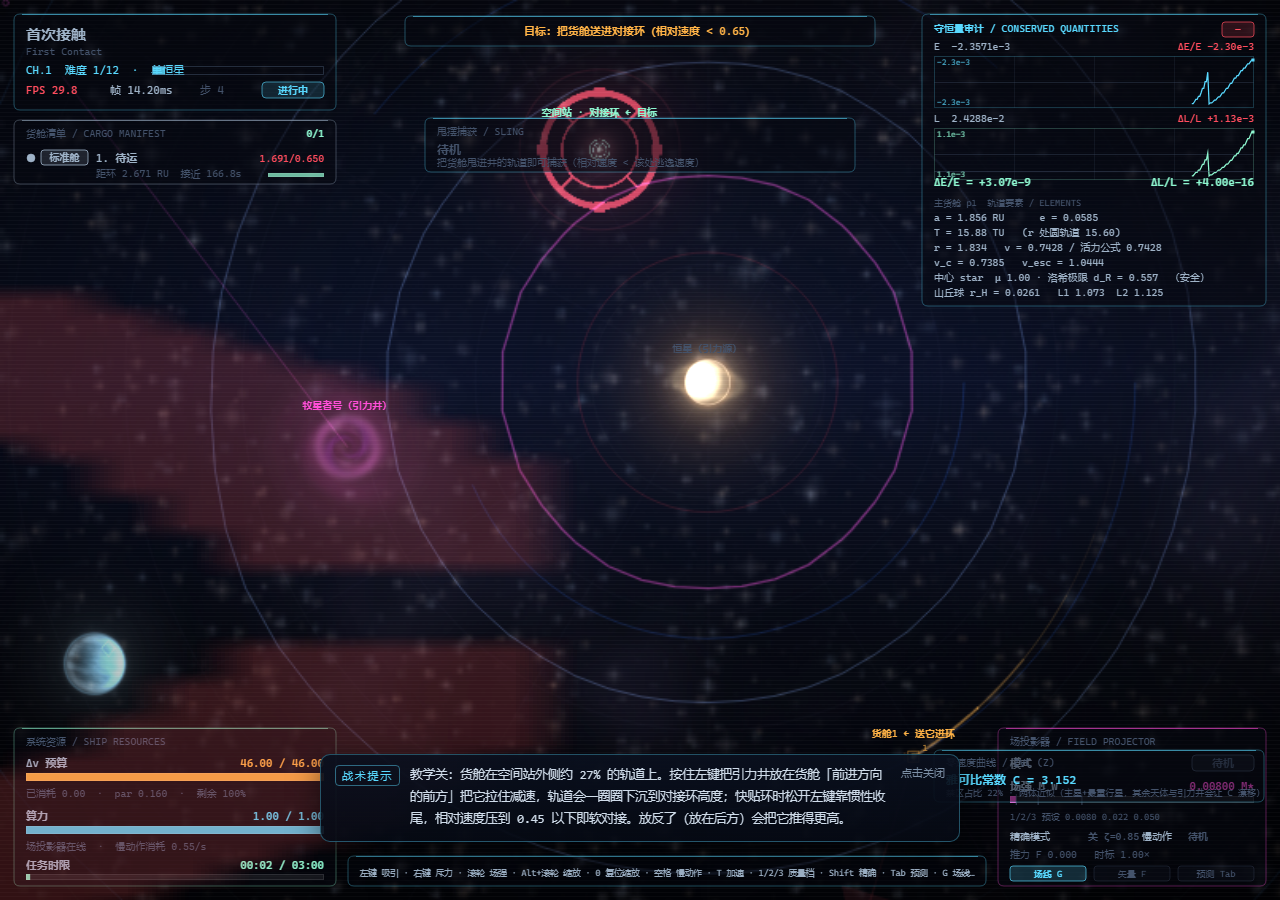
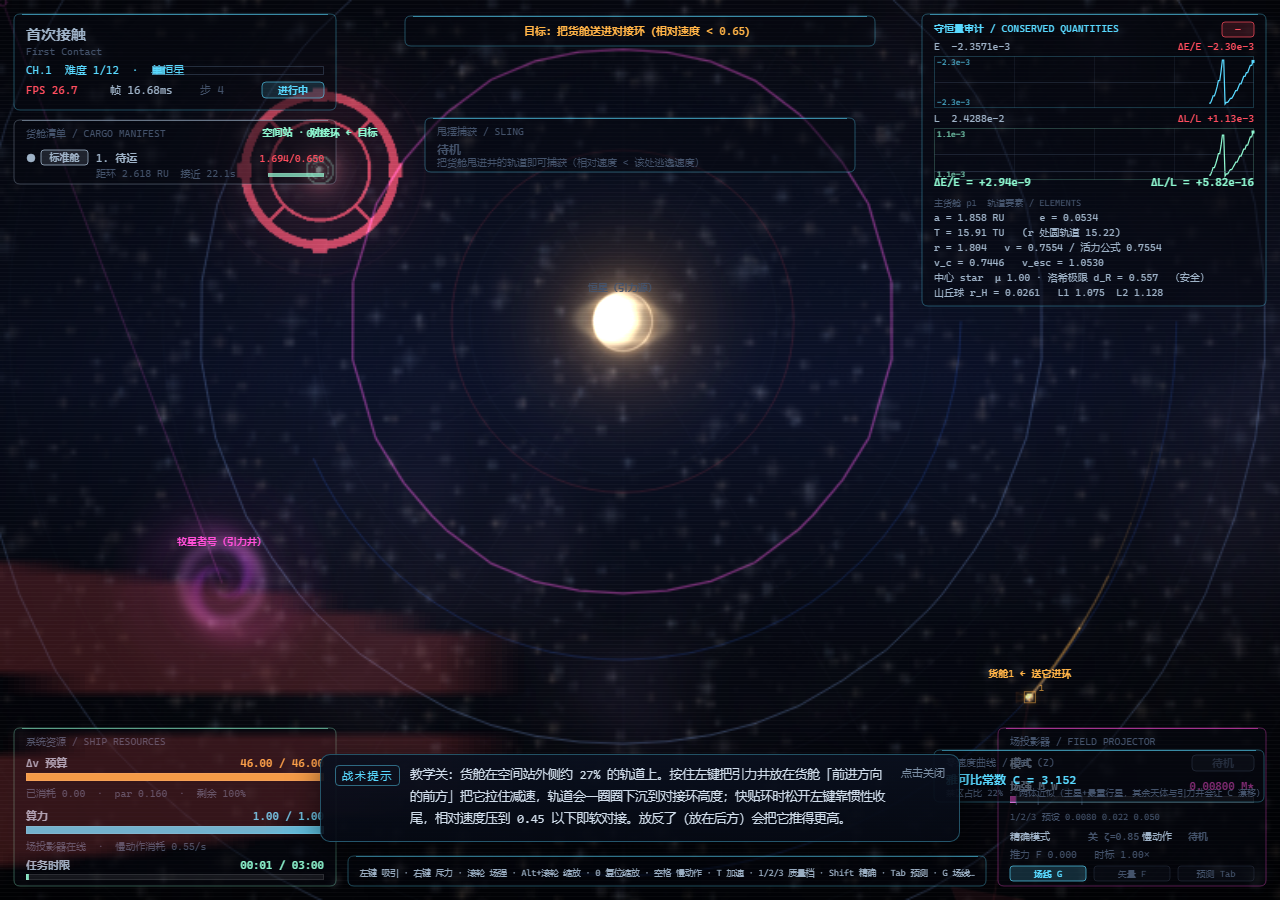
docs(hud): 操作提示条补上 Z 零速度曲线（上一条提交漏了：内联 python -c 引号转义假成功）

diff --git a/src/ui/hud.ts b/src/ui/hud.ts
@@ -1240,7 +1240,7 @@ export class Hud {
     const mode = w.well.engaged ? (w.well.repel ? '斥力' : '吸引') : '待机';
     return [
       '左键 吸引', '右键 斥力', '滚轮 场强', 'Alt+滚轮 缩放', '0 复位缩放', '空格 慢动作', 'T 加速', '1/2/3 质量档', 'Shift 精确',
-      'Tab 预测', 'G 场线', 'F 矢量', 'R 重置', 'Esc 暂停', 'M 静音', '(H 帮助)',
+      'Tab 预测', 'G 场线', 'Z 零速度曲线', 'F 矢量', 'R 重置', 'Esc 暂停', 'M 静音', '(H 帮助)',
     ].join(' · ') + `   [${mode}]`;
   }
 
